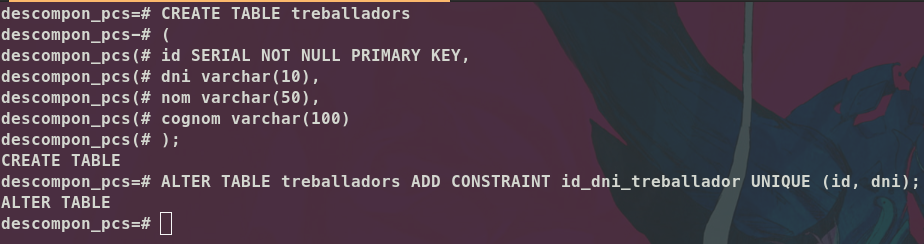
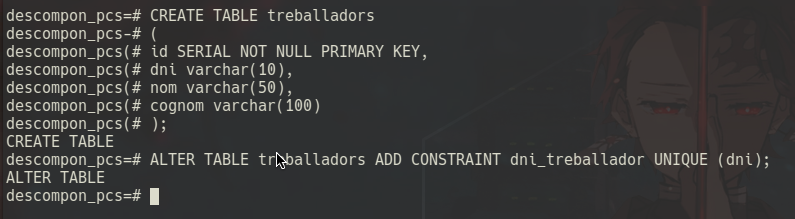
Pt3 casi acabada

diff --git a/Pt3/README.md b/Pt3/README.md
@@ -117,7 +117,7 @@ cognom varchar(100)
 ```
 
 ```plsql
-ALTER TABLE treballadors ADD CONSTRAINT id_dni_treballador UNIQUE (id, dni);
+ALTER TABLE treballadors ADD CONSTRAINT dni_treballador UNIQUE (dni);
 ```
 
 ![](img/8.png)
@@ -132,7 +132,7 @@ VALUES
 ('47478945-E','Carlos', 'Jimenez Fabregat');
 ```
 
-- Per alguna raó no m'ha impedit fer dos inserts iguals
+- Com podem veure al intentar inserir dos treballadors amb el mateix DNI  ens diu que no poden haver-hi duplicats
 
 ![9](img/9.png)
 
@@ -141,3 +141,18 @@ VALUES
 ## 5. Restriccions a les taules
 
 - Feu el mateix que al punt 4 però en restriccions de taula. 
+
+> Ara simplement caldrà crear la taula nova directament amb els camps dels que volm fer el unique
+
+```plsql
+CREATE TABLE treballadors
+(
+id SERIAL NOT NULL PRIMARY KEY,
+dni varchar(10),
+nom varchar(50),
+cognom varchar(100),
+CONSTRAINT pk_treballadors2 PRIMARY KEY(id),
+CONSTRAINT id_dni_treballadors2 UNIQUE(id, dni)
+);
+```
+
